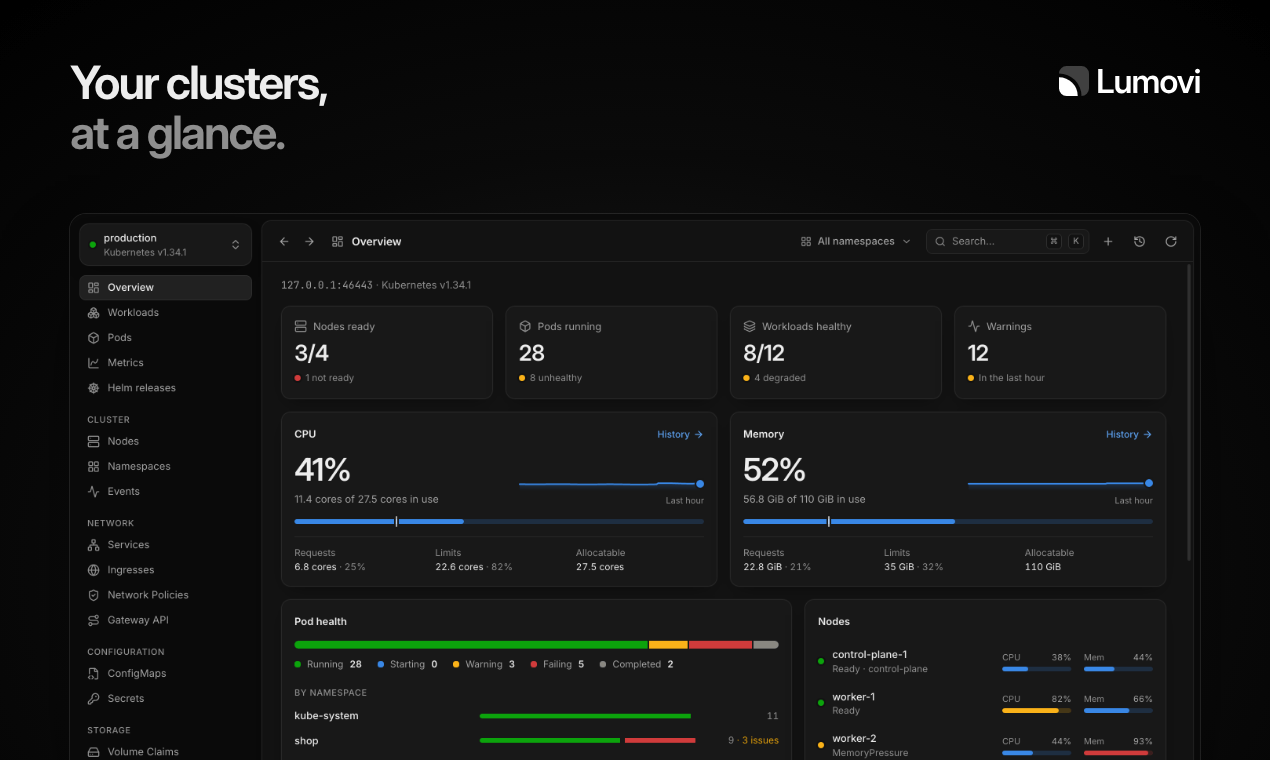
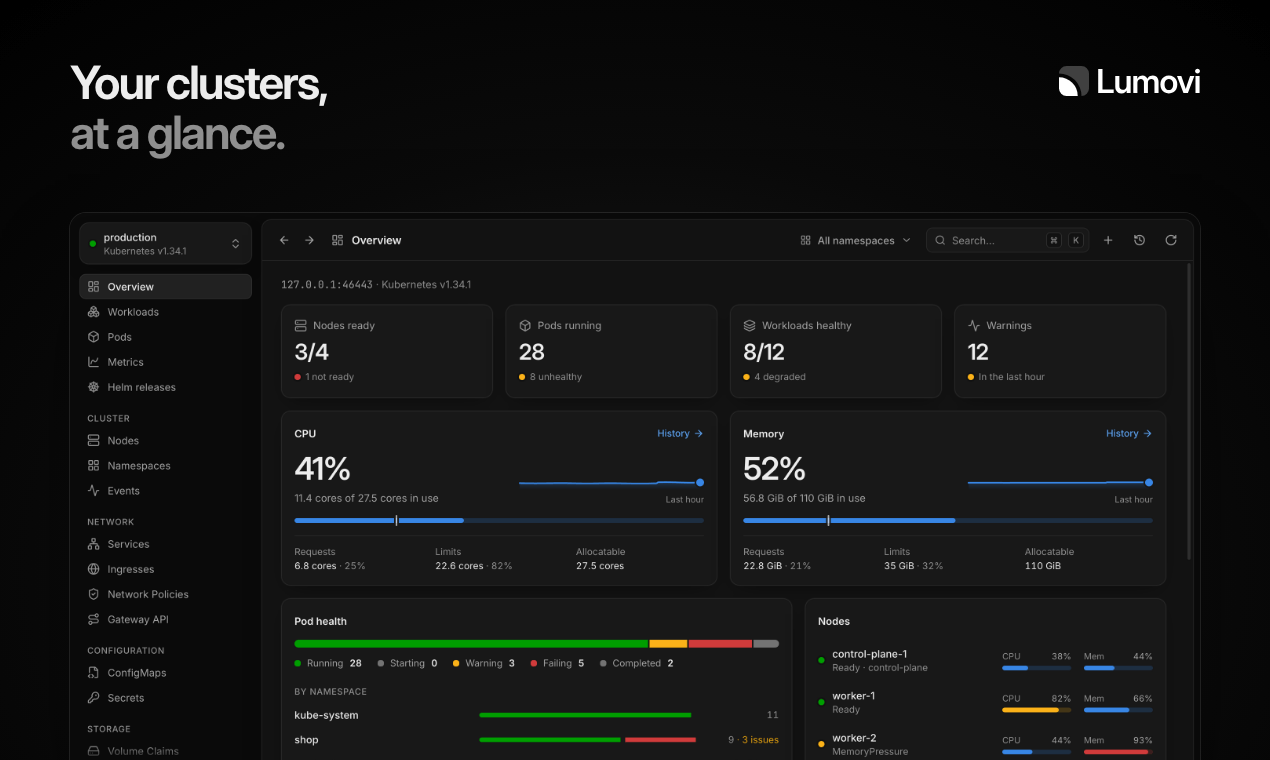
feat(social): Product Hunt's gallery shows 1.17.0
The gallery is made from the app's screens as Lumovi-marketing captures
them for the videos, kept in sources/captures: the app's published
screenshots are older. The window's top sits where the image's bottom
edge falls between two rows, a little higher for the access page.

The four screenshots nothing reads any more leave sources/screenshots.
The overview's stays, for the hero's thumbnail and the sponsor card.

Part of LMV-138

diff --git a/src/launch.ts b/src/launch.ts
@@ -1,7 +1,7 @@
 /**
  * The launch's art, for the accounts Lumovi opens: YouTube's channel art and a thumbnail for
  * each video, and Product Hunt's gallery. They show the real app, from pictures in sources/:
- * frames of the videos, and the app's own screenshots.
+ * frames of the videos, the app's own screenshots, and the pictures the videos are made from.
  */
 import { join } from 'node:path'
 import { pathToFileURL } from 'node:url'
@@ -38,7 +38,7 @@ export interface Video {
   crop: Crop
 }
 
-/** The pictures' sizes: the videos' frames, and the app's screenshots at twice the size. */
+/** The pictures' sizes: the videos' frames, and the app's window at twice the size. */
 const FRAME = { width: 1920, height: 1080 }
 const SCREENSHOT = { width: 2880, height: 1800 }
 
@@ -92,19 +92,24 @@ export const videos: Video[] = [
 ]
 
 export interface Shot {
-  /** The screenshot's name in the app's docs/screenshots/. */
+  /** The screen's name in sources/captures/, as Lumovi-marketing captures it for the videos. */
   screen: string
   /** The headline over it: the website's, for the same part of the app. */
   title: [string, string]
+  /**
+   * Where the window's top is, when not at 213: the window runs off the bottom of the image,
+   * and this puts that edge between two of the screen's rows, not through one's text.
+   */
+  top?: number
 }
 
-/** Product Hunt's gallery, in order: the app's own screenshots, each with what it shows. */
+/** Product Hunt's gallery, in order: the app's screens, each with what it shows. */
 export const gallery: Shot[] = [
   { screen: 'overview', title: ['Your clusters,', 'at a glance.'] },
   { screen: 'workloads', title: ['Made for the day something breaks.', 'Calm on all the others.'] },
   { screen: 'map', title: ['See what it’s connected to.', 'And what’s missing.'] },
   { screen: 'assistant-approval', title: ['Your assistant,', 'with you in charge.'] },
-  { screen: 'access', title: ['Who may do what,', 'and who did.'] },
+  { screen: 'access', title: ['Who may do what,', 'and who did.'], top: 206 },
 ]
 
 /** The pictures the art is made from, for npm run sources to fetch. */
@@ -118,16 +123,18 @@ export const sources = {
         }))
       : [],
   ),
-  screenshots: [
-    ...new Set(
-      [
-        ...gallery.map((s) => s.screen),
-        ...videos.flatMap((v) => ('screen' in v.picture ? [v.picture.screen] : [])),
-      ].flatMap((screen) =>
-        (['dark', 'light'] as const).map((theme) => `screenshots/${screen}-${theme}.webp`),
-      ),
+  screenshots: videos
+    .flatMap((v) => ('screen' in v.picture ? [v.picture.screen] : []))
+    .flatMap((screen) =>
+      (['dark', 'light'] as const).map((theme) => `screenshots/${screen}-${theme}.webp`),
     ),
-  ],
+  // The gallery's screens in both themes: Lumovi-marketing names them <screen>-<theme>.png.
+  captures: gallery.flatMap((s) =>
+    (['dark', 'light'] as const).map((theme) => ({
+      capture: `${s.screen}-${theme}.png`,
+      file: `captures/${s.screen}-${theme}.webp`,
+    })),
+  ),
 }
 
 const logo = (theme: Theme, height: number) =>
@@ -227,13 +234,14 @@ export function thumbnail(v: Video, theme: Theme): string {
 }
 
 /**
- * A Product Hunt gallery image, 1270 × 760: a headline over the app's screenshot, in the
- * screenshot's theme, the window running off the bottom.
+ * A Product Hunt gallery image, 1270 × 760: a headline over the app's screen, in the
+ * screen's theme, the window running off the bottom.
  */
 export function galleryImage(s: Shot, theme: Theme): string {
   const W = 1270
   const H = 760
-  const box = { x: 70, y: 214, width: W - 140, height: H - 214 }
+  const top = s.top ?? 213
+  const box = { x: 70, y: top, width: W - 140, height: H - top }
   return page(
     W,
     H,
@@ -246,7 +254,7 @@ export function galleryImage(s: Shot, theme: Theme): string {
     .window { left: ${box.x}px; top: ${box.y}px; width: ${box.width}px; height: ${box.height + 40}px; border-radius: 16px; }`,
     `<div class="copy"><h1>${headline(s.title, theme)}</h1></div>
     <div class="logo">${logo(theme, 30)}</div>
-    <div class="window">${cropped(source(`screenshots/${s.screen}-${theme}.webp`), SCREENSHOT, { x: 0, y: 0, ...SCREENSHOT }, box.width, (box.width * SCREENSHOT.height) / SCREENSHOT.width)}</div>`,
+    <div class="window">${cropped(source(`captures/${s.screen}-${theme}.webp`), SCREENSHOT, { x: 0, y: 0, ...SCREENSHOT }, box.width, (box.width * SCREENSHOT.height) / SCREENSHOT.width)}</div>`,
   )
 }
 

diff --git a/scripts/sources.ts b/scripts/sources.ts
@@ -1,8 +1,8 @@
 // sources/: the pictures the launch art is made from, which come from other repositories.
 // `npm run sources` takes them again: the app's screenshots as published (Lumovi's
-// docs/screenshots, through jsDelivr), and the videos' frames from a Lumovi-marketing checkout
-// beside this one, rendered there first with `npm run stills`, from both the dark and the light
-// versions of each video.
+// docs/screenshots, through jsDelivr), and from a Lumovi-marketing checkout beside this one,
+// the videos' frames, rendered there first with `npm run stills` from both the dark and the
+// light versions of each video, and the app's screens as captured there for the videos.
 import { existsSync, mkdirSync, writeFileSync } from 'node:fs'
 import { dirname, join, resolve } from 'node:path'
 import sharp from 'sharp'
@@ -40,6 +40,24 @@ for (const { still: name, file } of sources.posters) {
 if (missing.length) {
   console.error(
     `\nThese frames aren't in ${MARKETING}/out/stills: render them there (npm run stills), then run this again.\n${missing.map((m) => `  ${m}`).join('\n')}`,
+  )
+  process.exitCode = 1
+}
+
+const uncaptured: string[] = []
+for (const { capture: name, file } of sources.captures) {
+  const capture = join(MARKETING, 'public', 'captures', name)
+  if (!existsSync(capture)) {
+    uncaptured.push(name)
+    continue
+  }
+  // Captured at three times the window's size, kept at twice: the screenshots' size.
+  await sharp(capture).resize(2880, 1800).webp({ lossless: true, effort: 6 }).toFile(out(file))
+  console.log(`sources/${file}`)
+}
+if (uncaptured.length) {
+  console.error(
+    `\nThese screens aren't in ${MARKETING}/public/captures: capture them there (npm run capture), then run this again.\n${uncaptured.map((m) => `  ${m}`).join('\n')}`,
   )
   process.exitCode = 1
 }

diff --git a/sources/README.md b/sources/README.md
@@ -8,6 +8,7 @@ here: `npm run sources` takes them again.
 | ----------------------------------- | ----------------------------------------------------------------------- | ---------------------------------------------------------------------------------------------------------------------------------------------------- |
 | `posters/<video>-<theme>.webp`      | A frame of each video, from its dark and its light version, 1920 × 1080 | [Lumovi-marketing](https://github.com/Lumovi/Lumovi-marketing)'s stills, `<video>-<second>.png` and `<video>-light-<second>.png`, losslessly as WebP |
 | `screenshots/<screen>-<theme>.webp` | The app's own screenshots, 2880 × 1800                                  | [Lumovi's `docs/screenshots/`](https://github.com/Lumovi/Lumovi/tree/main/docs/screenshots), through jsDelivr, as they're published                  |
+| `captures/<screen>-<theme>.webp`    | The app's screens as the videos show them, 2880 × 1800                  | [Lumovi-marketing](https://github.com/Lumovi/Lumovi-marketing)'s captures, `<screen>-<theme>.png`, at two thirds of their size, losslessly as WebP   |
 
 Which frame each video's thumbnail uses, the part of it shown, and which screenshots go in the
 gallery are set in [`src/launch.ts`](../src/launch.ts).
@@ -18,5 +19,7 @@ To take them again, for new screenshots or other frames:
    video's frame from its dark and its light version (`npm run stills`), at the second
    `src/launch.ts` has, written to one decimal place: `incident-24.0.png` and
    `incident-light-24.0.png`. `npm run sources` lists the ones it can't find.
-2. Here, `npm run sources`, then `npm run build -- social`.
-3. Look at the thumbnails again: a different frame may need a different crop.
+2. There too, capture the app's screens for the gallery (`npm run capture`): `overview-dark.png`
+   and so on, in `public/captures/`.
+3. Here, `npm run sources`, then `npm run build -- social`.
+4. Look at the thumbnails again: a different frame may need a different crop.

diff --git a/README.md b/README.md
@@ -179,7 +179,7 @@ Black, white and true neutral grays carry the brand. Blue is only for what you c
 | `social/youtube/channel-art-*.png`               | The YouTube channel's banner, 2560 × 1440. TVs show it all, computers the middle band, phones only the middle 1546 × 423, where the title and the mark are  |
 | `social/youtube/thumbnails/<video>-*.png`        | Each video's thumbnail, 1280 × 720: `hero`, `incident` ("It's 2 a.m."), `approval` ("It asked first"), `platform` ("Monday") and `map` ("Where's the 503?") |
 | `social/product-hunt/thumbnail.png`              | The Product Hunt thumbnail, 240 × 240: the app icon                                                                                                         |
-| `social/product-hunt/gallery-<n>-<screen>-*.png` | The Product Hunt gallery, 1270 × 760, in its order, from the app's own screenshots                                                                          |
+| `social/product-hunt/gallery-<n>-<screen>-*.png` | The Product Hunt gallery, 1270 × 760, in its order, from the app's screens as the videos show them                                                          |
 
 The launch art comes in dark and light (`-dark`, `-light`): pick one for each account, or one
 theme for a whole gallery. It's made from the pictures in [`sources/`](sources), and the videos'
